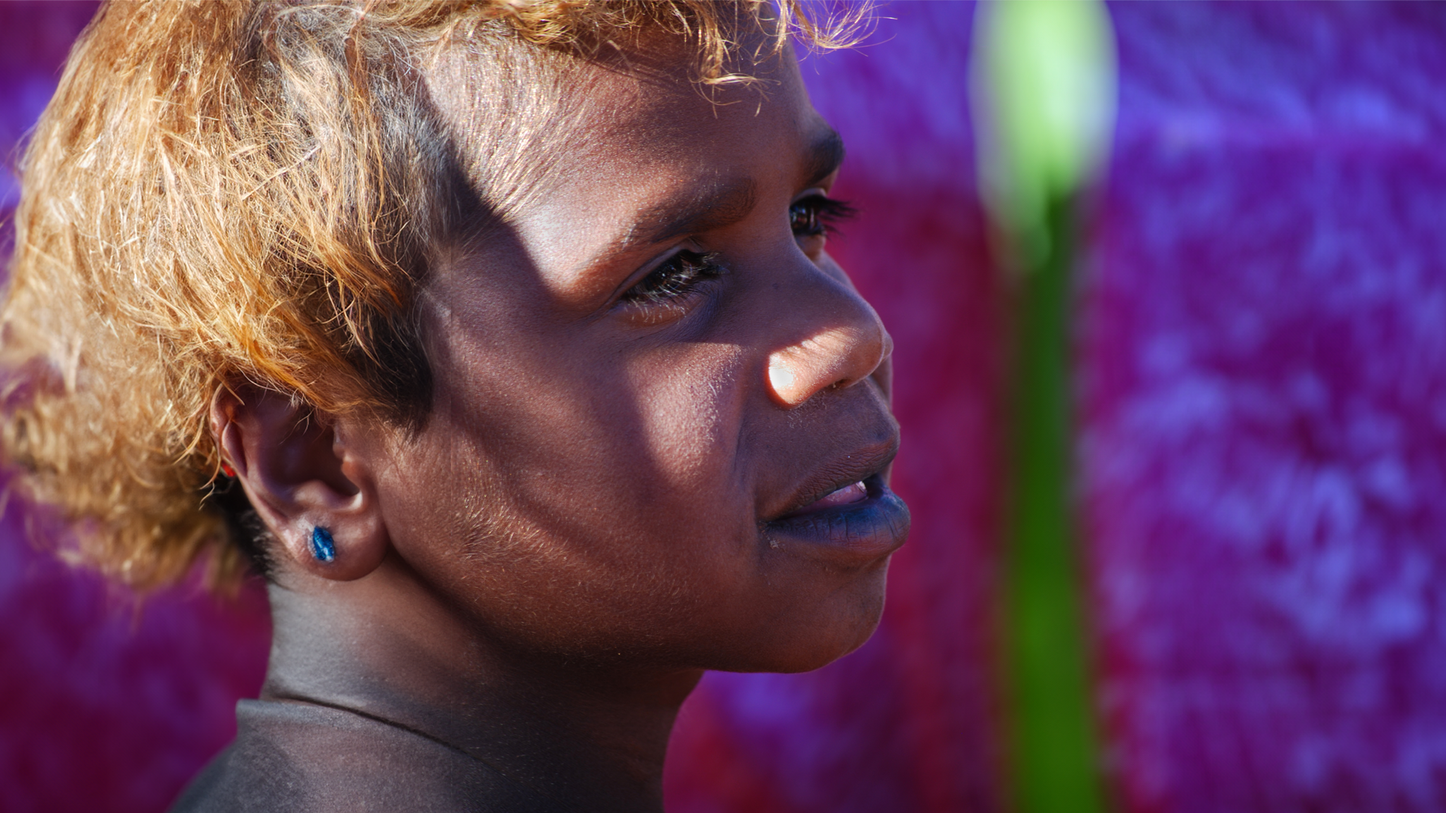
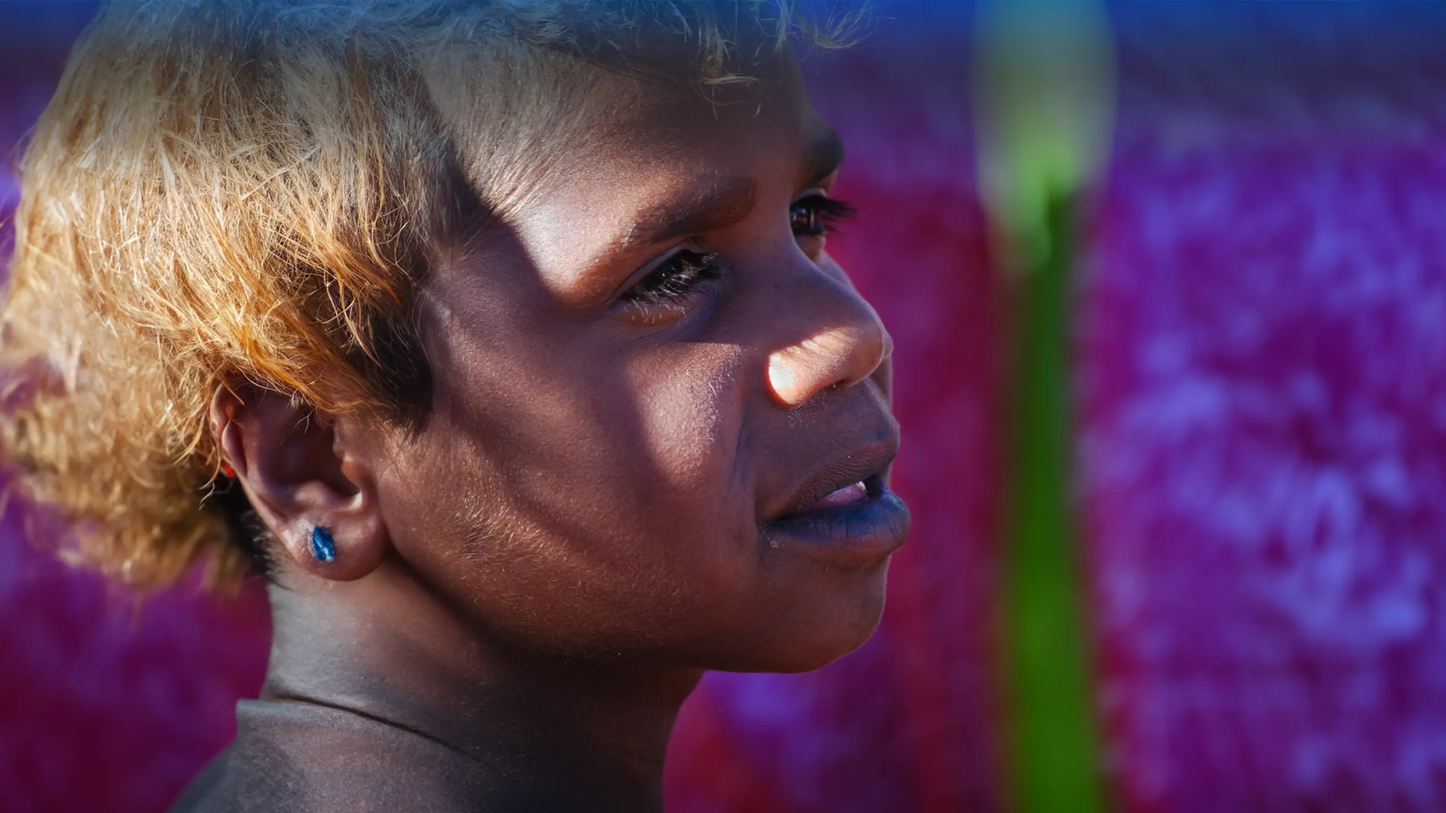
Fixing some images in Articles. Also, fixed views for 2xl onwards in Articles

Changed region(s): [[0.0, 0.0, 1.0, 0.25]]

diff --git a/src/app/blog/[url]/MainContent.tsx b/src/app/blog/[url]/MainContent.tsx
@@ -29,13 +29,13 @@ export default function MainContent({article} : any) {
     <section className='bg-blue-100 pt-[2rem] pb-[3rem] md:pb-[4rem] 2xl:py-[4rem] 3xl:py-[8rem] sm:flex sm:flex-col items-center'>
         <div className='page flex flex-col gap-[1.5rem] md:gap-[1.9rem] '>
             {/* Steps */}
-            <div className='flex flex-col gap-[1rem]'>
+            <div className='flex flex-col gap-[1rem] 2xl:w-2/3 2xl:mx-auto '>
                 {article.fields.steps.content.map((entry: stepsContent, index: number) => (
                   <div key={index} className=''>
                     {entry.nodeType === "heading-3" ? (
                       <h3 className='cormorant text-[1.575rem] leading-[1.575rem] font-semibold'>{entry.content[0].value}</h3>
                     ): entry.nodeType === "paragraph" ? (
-                        <p>{entry.content[0].value}</p>
+                        <p className=''>{entry.content[0].value}</p>
                     ) : (
                       <div className='md:my-[1rem] md:border-[2px] md:border-[#93C5FD] md:rounded-tr-[2rem] md:rounded-bl-[1rem] md:p-[1rem]'>
                         <Image 
